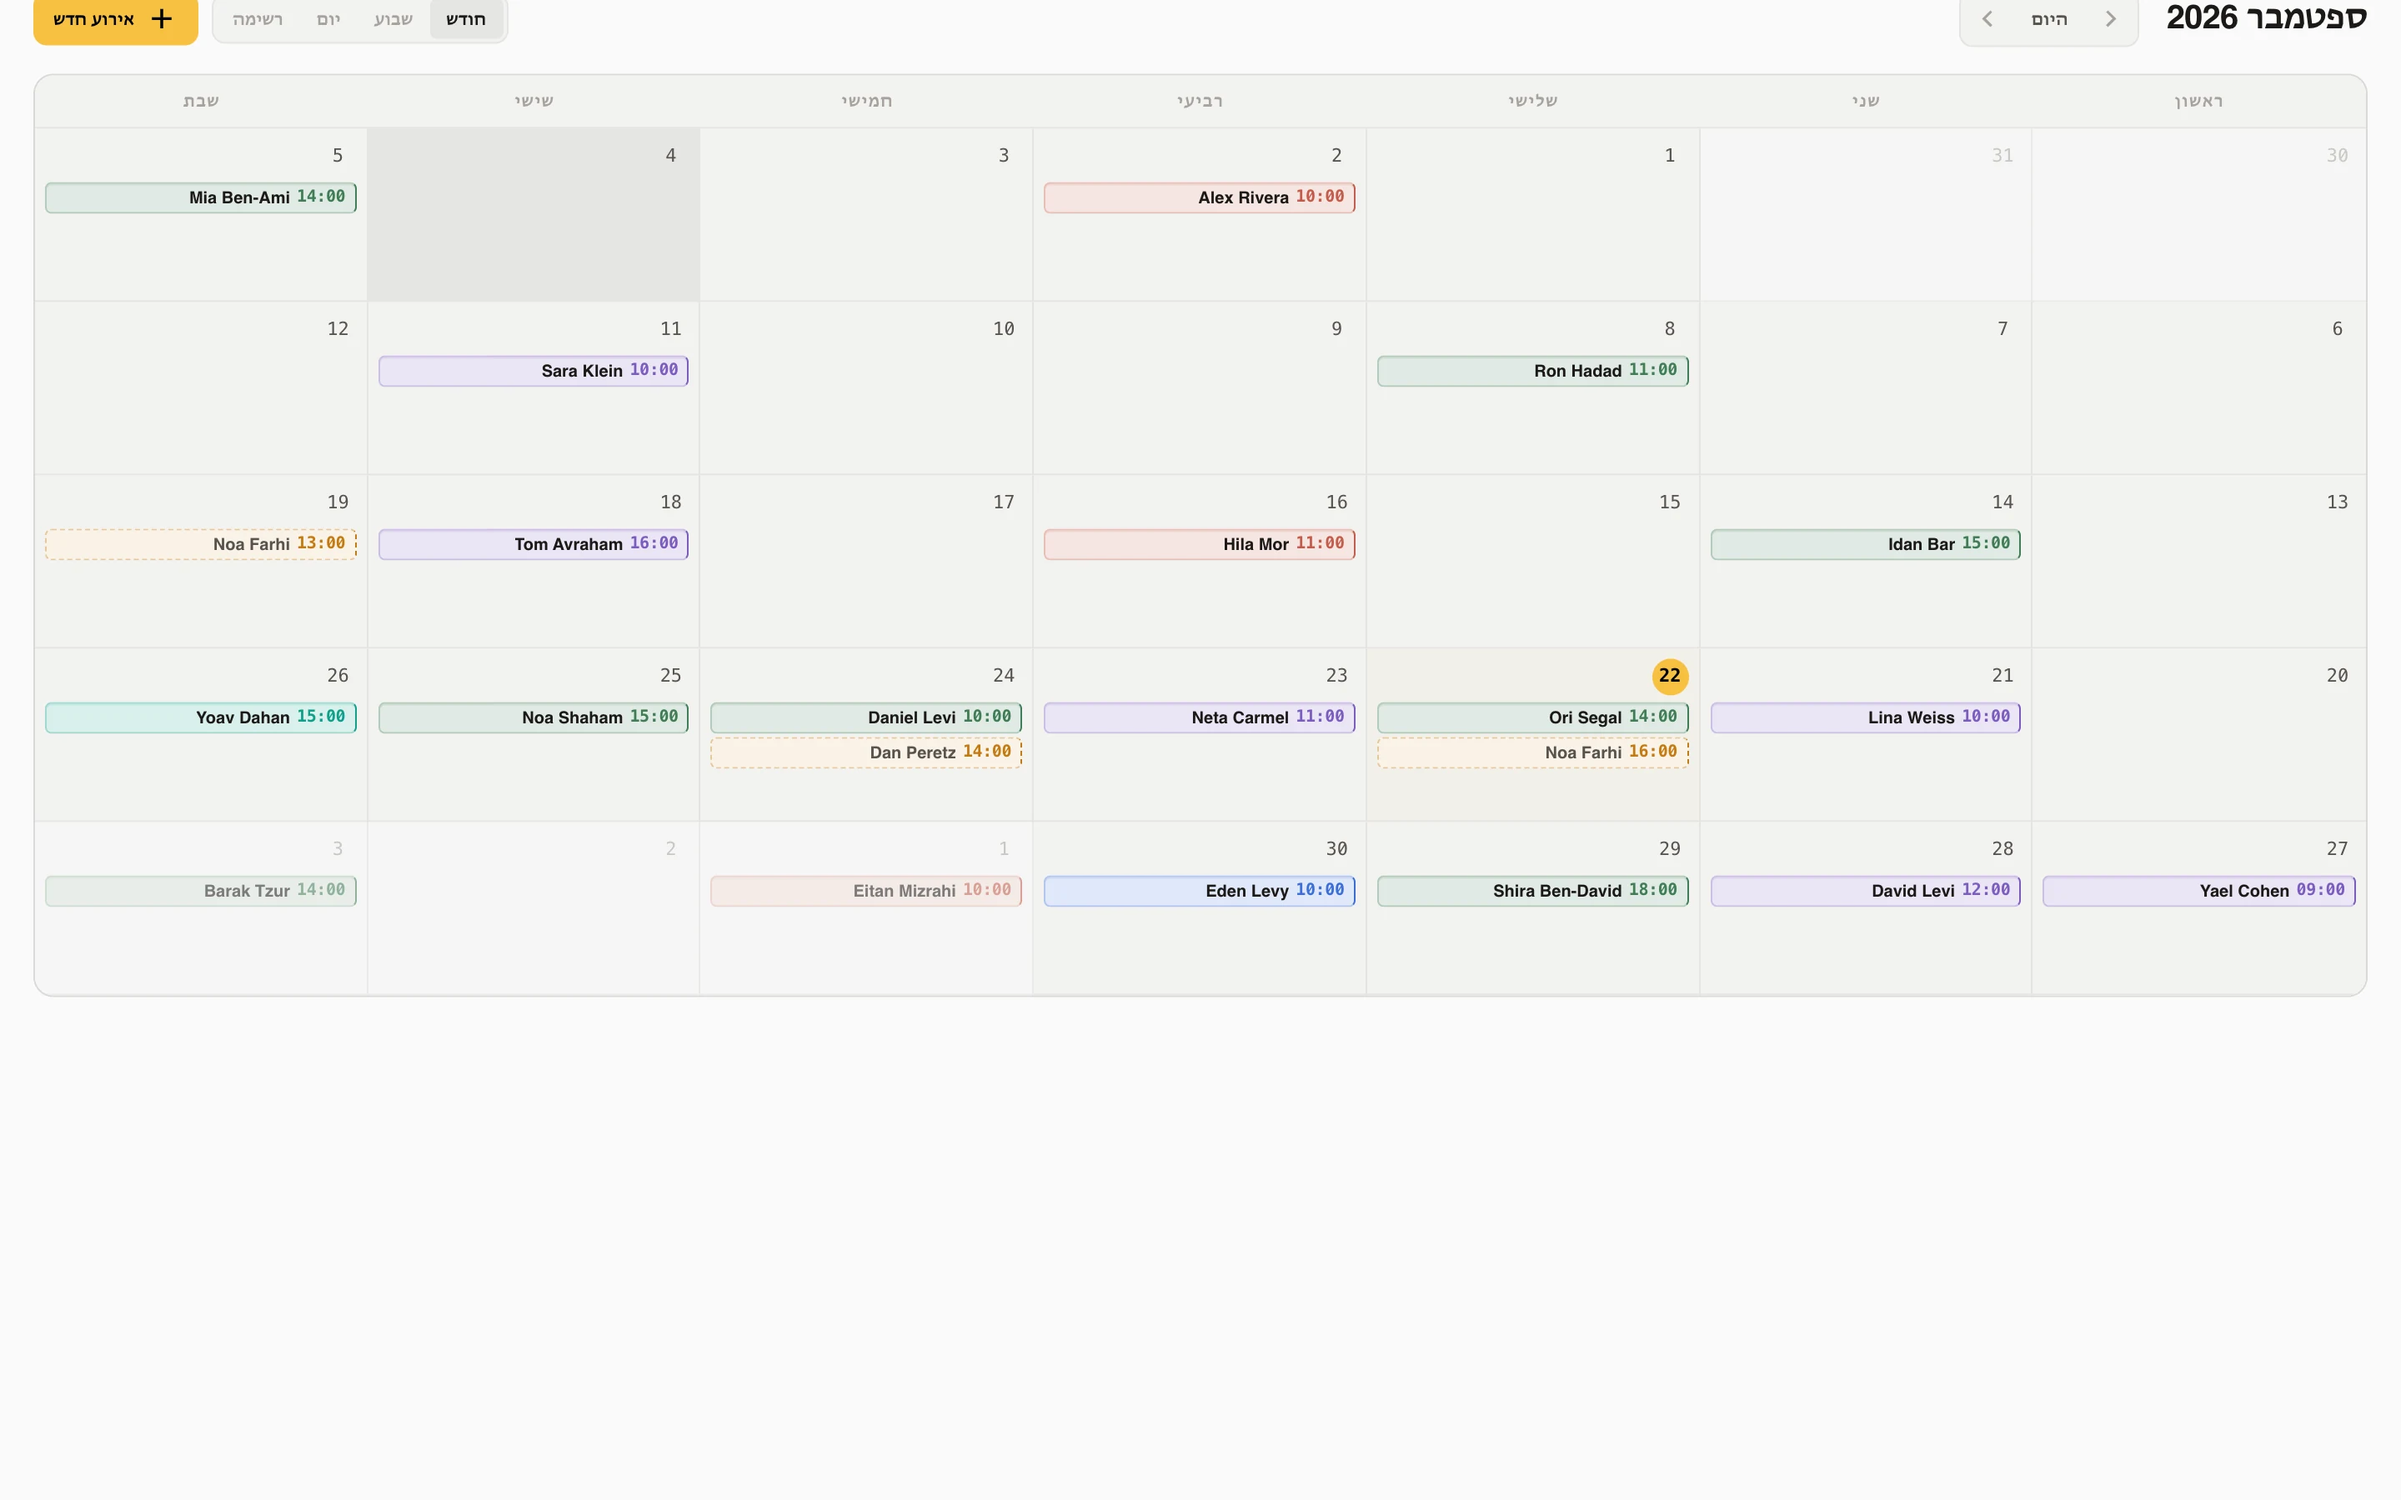
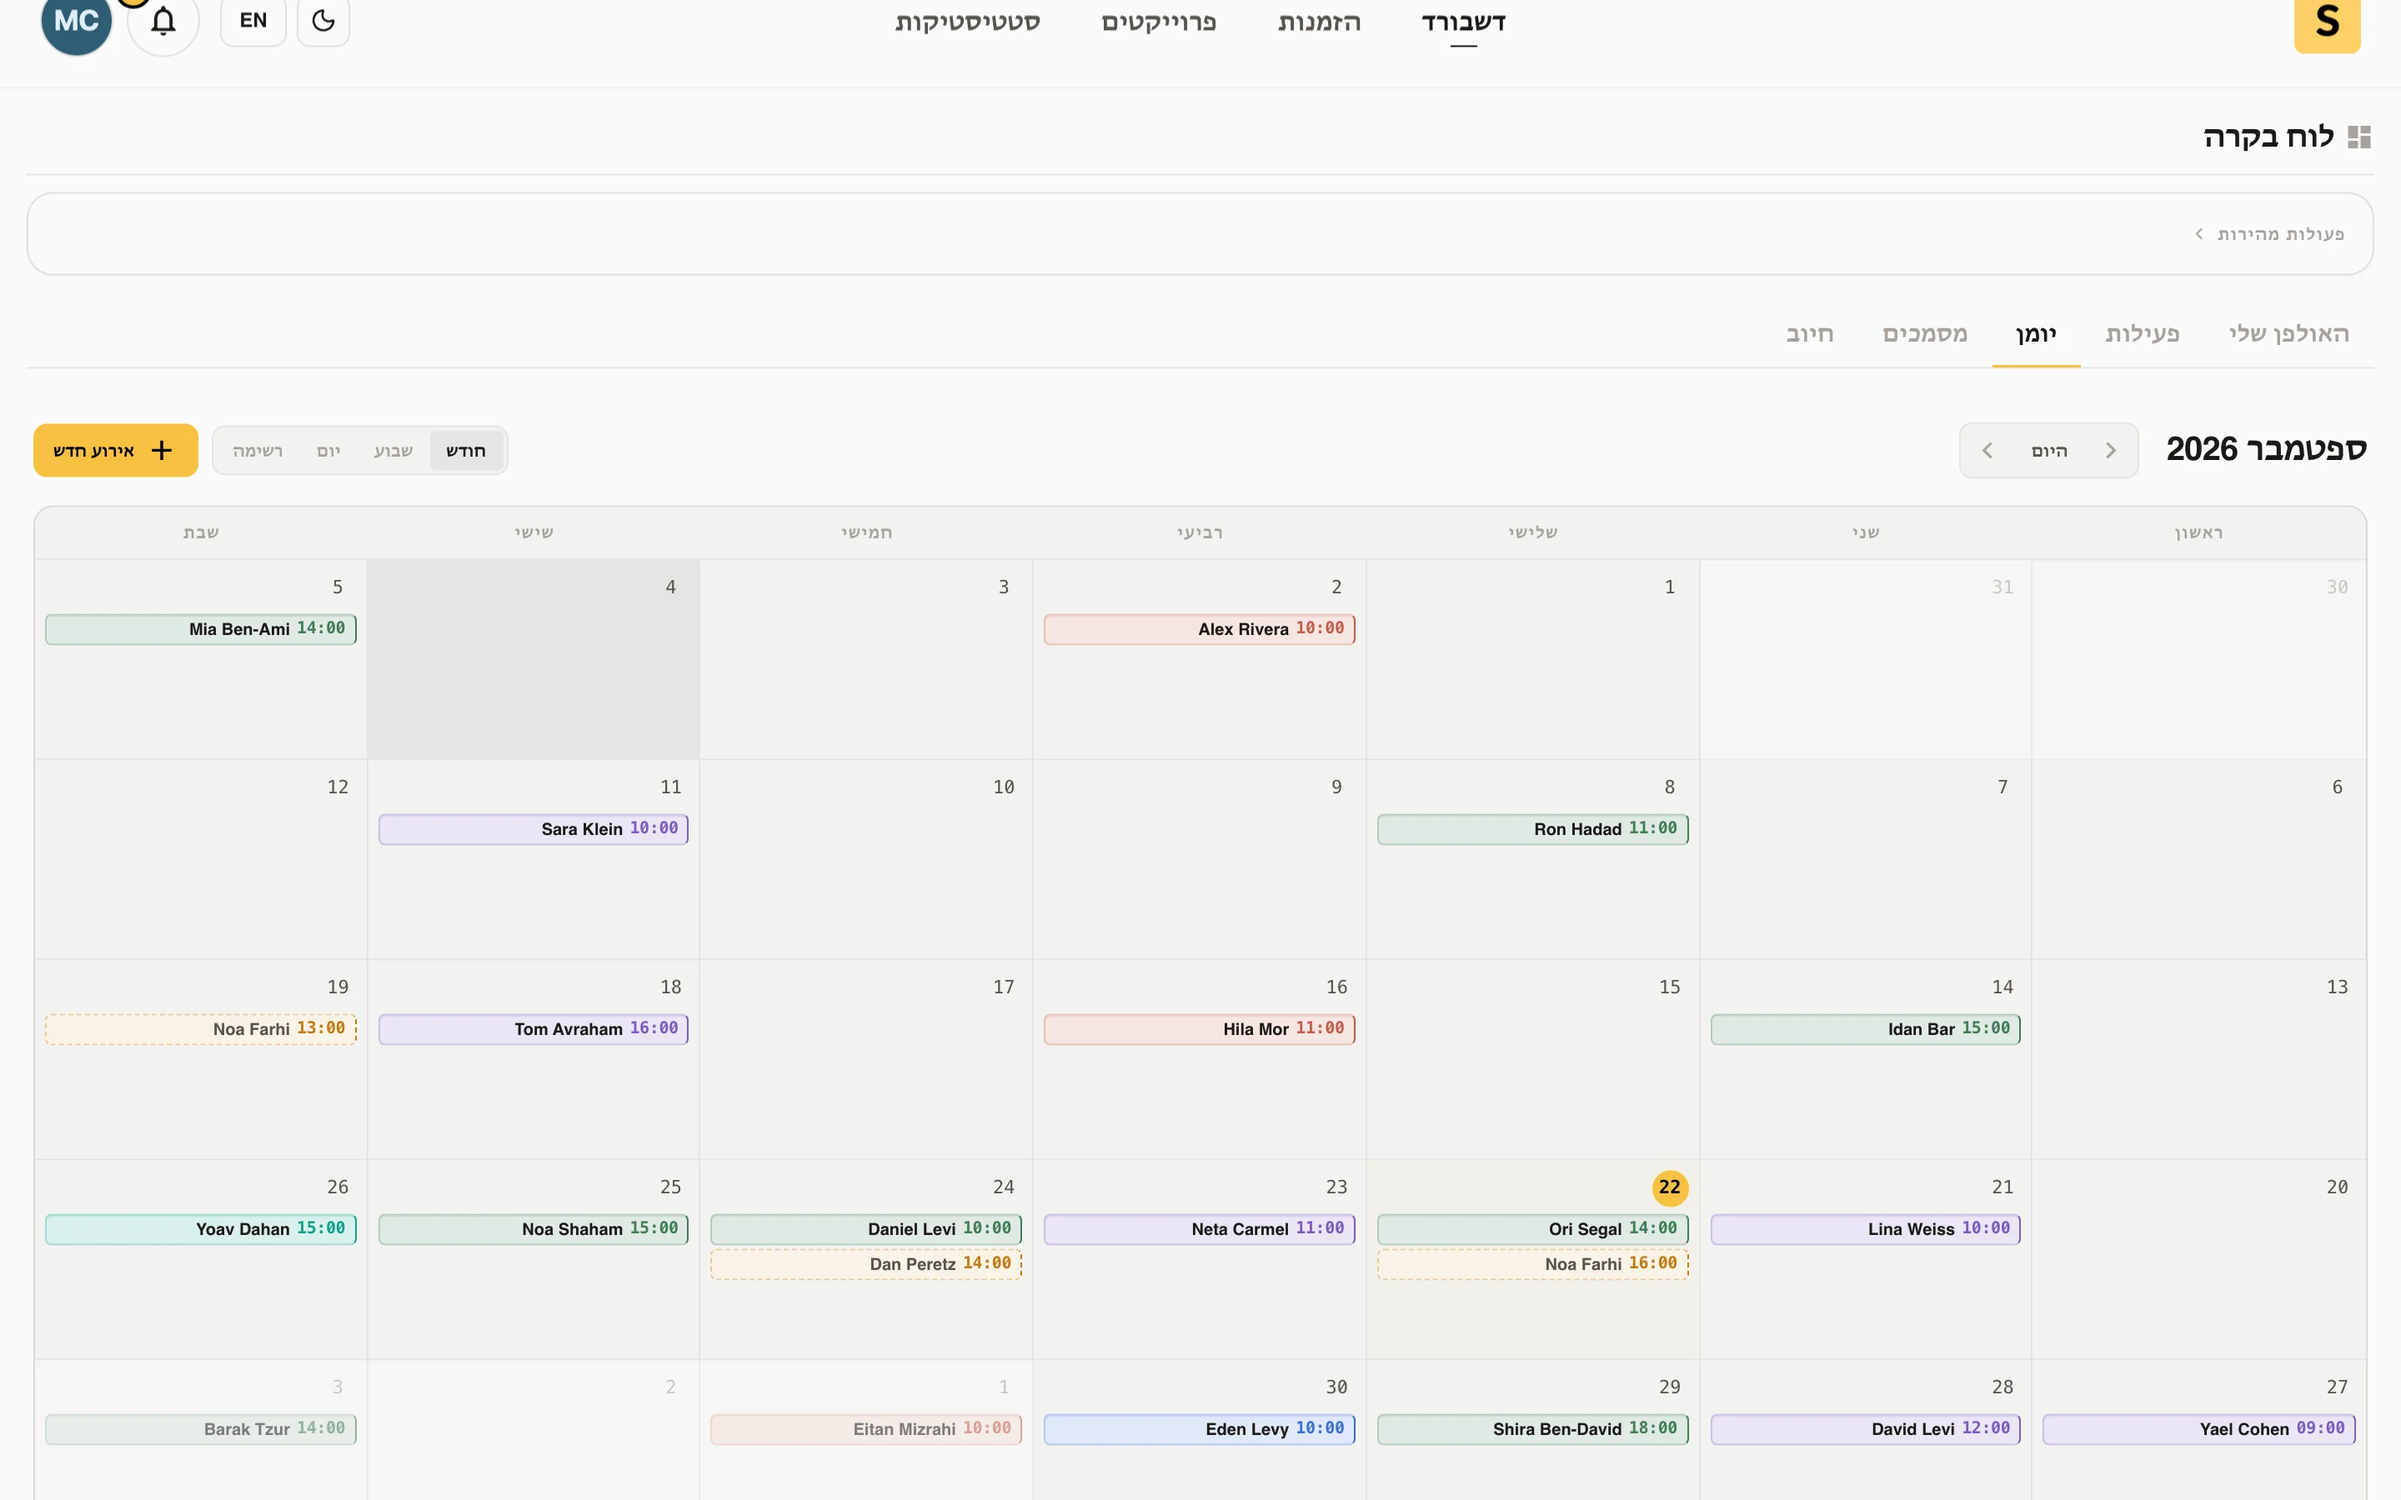
Fix landing showcase crop and denser calendar captures.
Paired shots were forcing 4:3 cover on 16:10 captures (side-clipping). Match the native ratio, fill month calendar frames for marketing, and drop the short day-list rotation that left empty frames.

diff --git a/tools/app-store-screenshots/screenshots.config.ts b/tools/app-store-screenshots/screenshots.config.ts
@@ -80,8 +80,17 @@ const scenes: ScreenshotScene[] = [
     textAlign: 'center',
     actions: [
       { type: 'click', selector: '.quick-actions__header' },
-      // Scroll the calendar chrome flush to the top — avoid absolute y/transform gaps.
-      { type: 'scroll', selector: '.studioz-calendar__control-bar', offsetY: -6 }
+      // Fill the viewport under the control bar so flush framing isn't mostly empty.
+      {
+        type: 'style',
+        css: `
+          .studioz-calendar__day-cell { min-height: 7.5rem !important; }
+          .studioz-calendar__content { min-height: calc(100vh - 5.5rem) !important; }
+          .studioz-calendar__month-view { min-height: inherit !important; }
+        `
+      },
+      // Keep app chrome in frame; taller month cells fill the rest.
+      { type: 'scroll', selector: '.dashboard-calendar', offsetY: 0 }
     ],
     deviceTransform: { scale: 0.72, y: 100, shadow: true },
     capturePublish: {
@@ -112,7 +121,24 @@ const scenes: ScreenshotScene[] = [
     actions: [
       { type: 'click', selector: '.quick-actions__header' },
       { type: 'click', selector: '.studioz-calendar__view-tabs .studioz-calendar__view-tab:nth-child(4)' },
-      { type: 'scroll', selector: '.studioz-calendar__control-bar', offsetY: -6 }
+      {
+        type: 'style',
+        css: `
+          .studioz-calendar { zoom: 1.28; }
+          .studioz-calendar__list-view {
+            padding: 1.15rem 1.35rem !important;
+          }
+          .studioz-calendar__list-header {
+            margin-bottom: 0.85rem !important;
+            padding-bottom: 0.65rem !important;
+          }
+          .studioz-calendar__list-title { font-size: 1.15rem !important; }
+          .studioz-calendar__list-events { gap: 0.75rem !important; }
+          .studioz-calendar__list-event { padding: 1rem 1.1rem !important; }
+          .studioz-calendar__list-event-start { font-size: 1.2rem !important; }
+        `
+      },
+      { type: 'scroll', selector: '.dashboard-calendar', offsetY: 0 }
     ],
     deviceTransform: { scale: 0.72, y: 100, shadow: true },
     capturePublish: {

diff --git a/tools/app-store-screenshots/src/config/types.ts b/tools/app-store-screenshots/src/config/types.ts
@@ -66,7 +66,8 @@ export type NavigationAction =
   | { type: 'click'; selector: string }
   | { type: 'fill'; selector: string; value: string }
   | { type: 'press'; key: string }
-  | { type: 'scroll'; selector?: string; x?: number; y?: number; offsetY?: number };
+  | { type: 'scroll'; selector?: string; x?: number; y?: number; offsetY?: number }
+  | { type: 'style'; css: string };
 
 export interface CaptureScenario {
   id: string;

diff --git a/tools/app-store-screenshots/src/capture/web.ts b/tools/app-store-screenshots/src/capture/web.ts
@@ -246,6 +246,10 @@ async function runNavigationAction(page: Page, action: NavigationAction): Promis
     await page.click(action.selector);
     return;
   }
+  if (action.type === 'style') {
+    await page.addStyleTag({ content: action.css });
+    return;
+  }
   if (action.type === 'fill') {
     await page.waitForSelector(action.selector, { visible: true });
     await page.$eval(

diff --git a/src/features/static/pages/PreviewLandingPage.tsx b/src/features/static/pages/PreviewLandingPage.tsx
@@ -33,7 +33,8 @@ const SHOWCASES = [
   },
   {
     key: 'calendar',
-    desktops: ['desktop-calendar', 'desktop-calendar-list'] as const
+    // Month only — day-list agenda is too short to fill a 16:10 marketing frame.
+    desktops: ['desktop-calendar'] as const
   },
   {
     key: 'projects',

diff --git a/src/features/static/styles/_preview-landing-page.scss b/src/features/static/styles/_preview-landing-page.scss
@@ -421,7 +421,7 @@
     }
 
     .preview-landing__shot--rotating > img {
-      aspect-ratio: 4 / 3;
+      aspect-ratio: 16 / 10;
     }
   }
 
